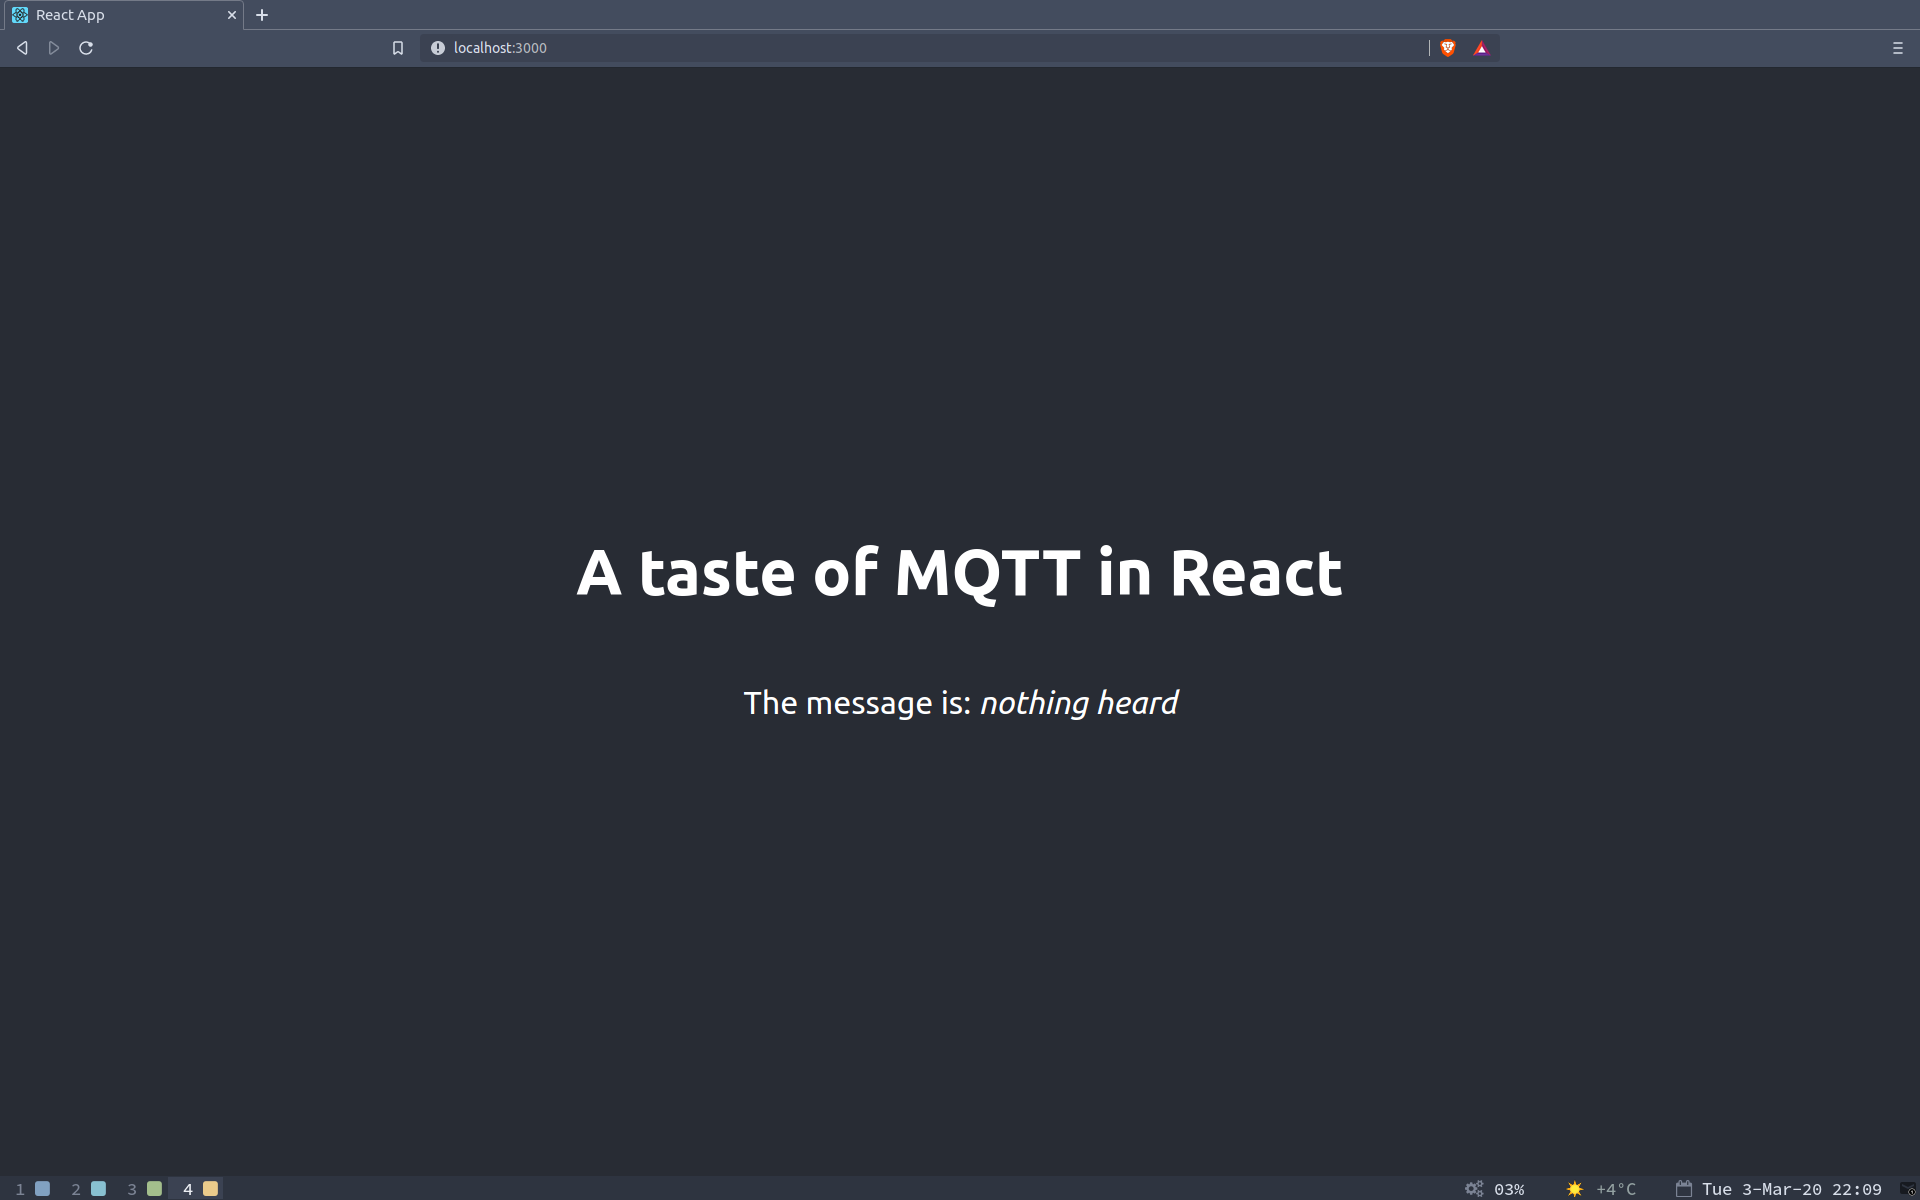
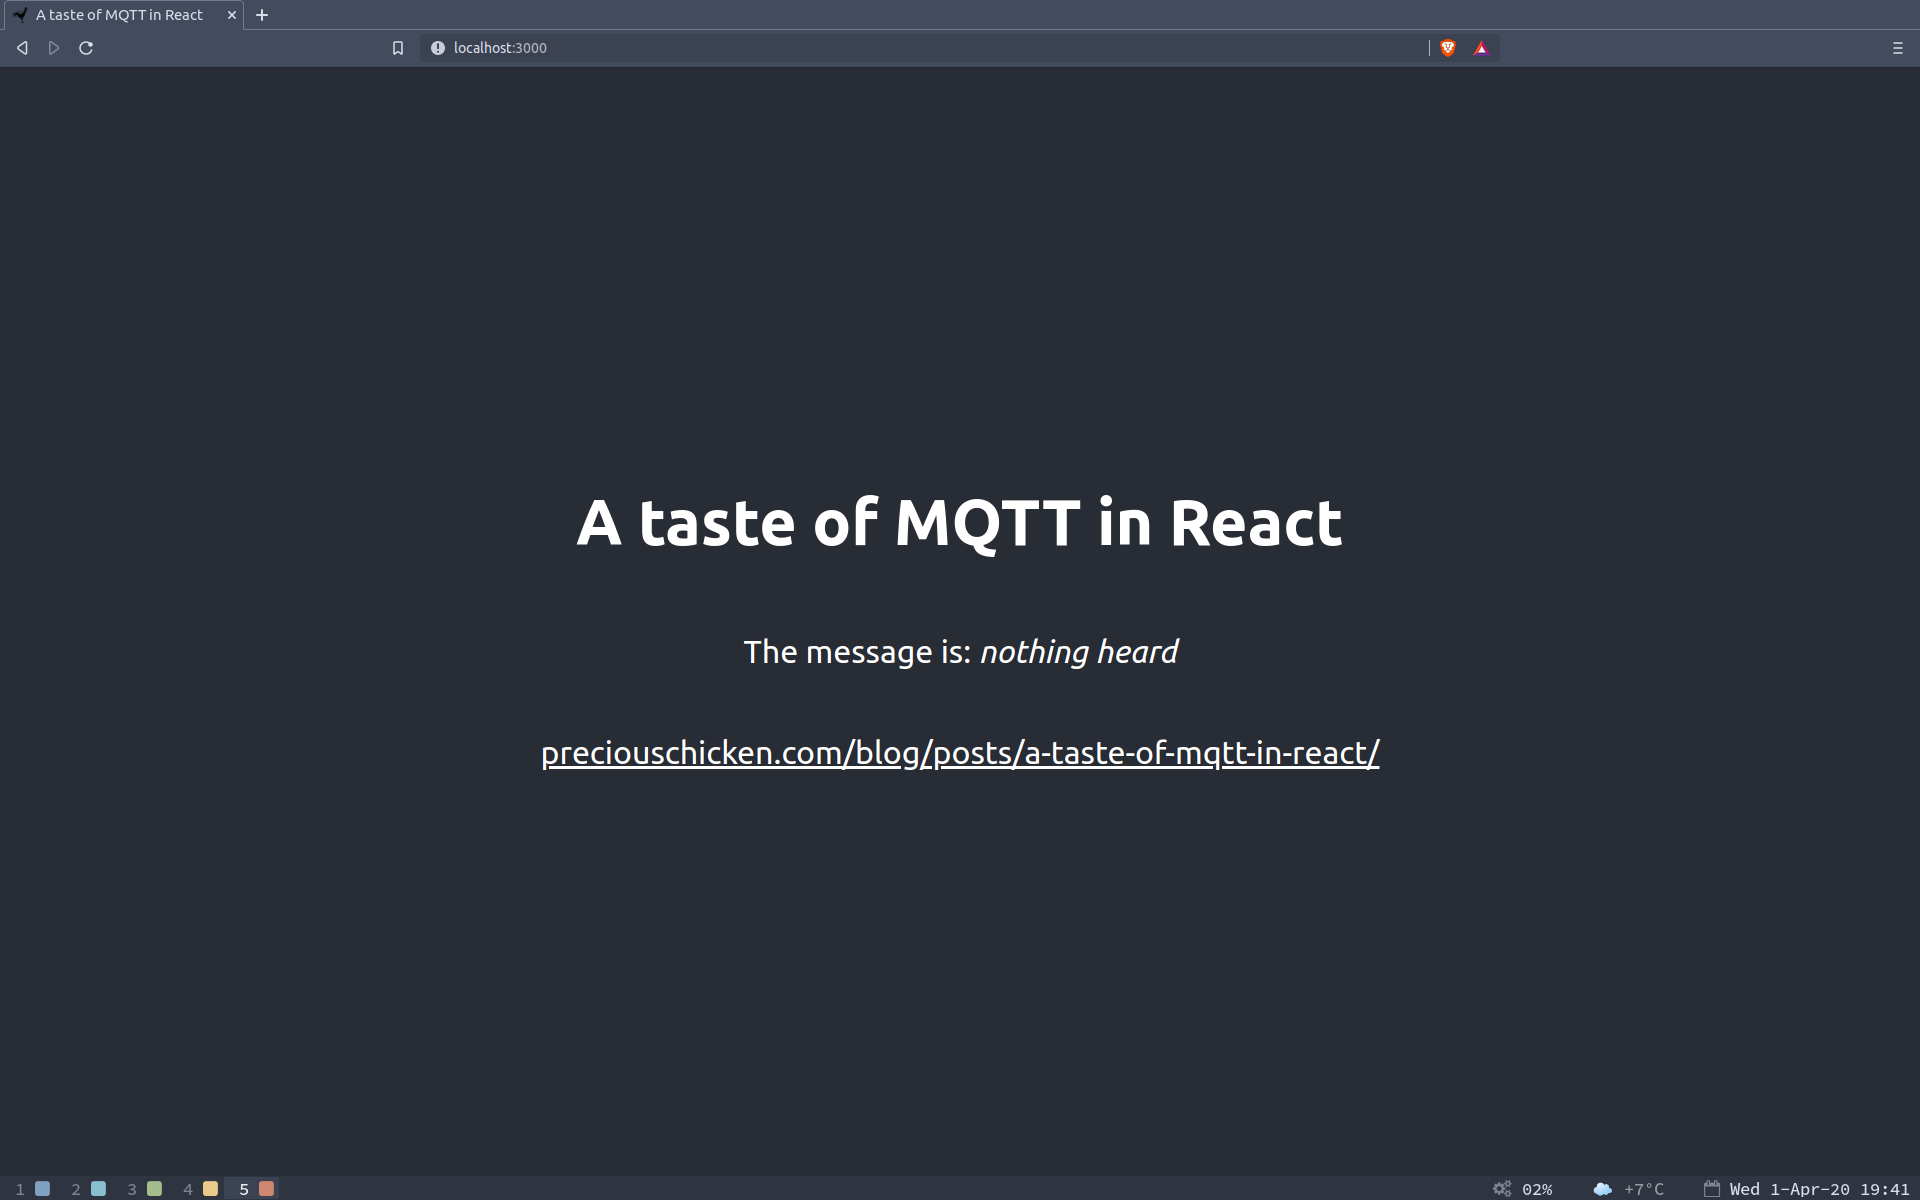
MQTT broker changed from Hive

diff --git a/content/posts/A-taste-of-MQTT-in-React.md b/content/posts/A-taste-of-MQTT-in-React.md
@@ -1,15 +1,20 @@
 ---
 title: "A taste of MQTT in React"
 date: 2020-03-03T21:43:50Z
-tags: ["React", "MQTT"]
+tags: ["React", "MQTT", "JavaScript"]
 categories: ["Web development"]
 description: "A very quick start to updating a page in React using MQTT"
-draft: true
+draft: false
 ---
+
+**Update Apr 20**: This tutorial previously used the MQTT online broker [HiveMQ](https://www.hivemq.com), which worked fine when you were using a local development server.  However once uploaded to a web site provider using https (pretty much everyone now), then it generated a mixed content error message.  This update therefore uses the [Eclipse Mosquitto MQTT broker](https://mosquitto.org), which doesn't have these problems.
 
 ### Introduction
 
-MQTT, is according to Wikipedia, "an open OASIS and ISO standard (ISO/IEC PRF 20922) lightweight, publish-subscribe network protocol that transports messages between devices."  It was first used to monitor an oil pipeline through the desert, and is now used in various Internet of Things scenarios.  This guide shows how you might update a [React](https://reactjs.org) page using a MQTT online broker - specifically [HiveMQ](https://www.hivemq.com).
+MQTT, is according to Wikipedia, 
+>"an open OASIS and ISO standard (ISO/IEC PRF 20922) lightweight, publish-subscribe network protocol that transports messages between devices."
+
+It was first used to monitor an oil pipeline through the desert, and is now used in various Internet of Things scenarios.  This guide shows how you might update a [React](https://reactjs.org) page using a MQTT online broker - specifically [Mosquitto](https://mosquitto.org).
 
 ### Prerequisites
 
@@ -42,33 +47,51 @@ import React, { useState, Fragment } from 'react';
 import './App.css';
 
 var mqtt    = require('mqtt');
-var client  = mqtt.connect('mqtt://broker.hivemq.com:8000/mqtt');
+var options = {
+	protocol: 'mqtts',
+	// clientId uniquely identifies client
+	// choose any string you wish
+	clientId: 'b0908853' 	
+};
+var client  = mqtt.connect('mqtt://test.mosquitto.org:8081', options);
+
+// preciouschicken.com is the MQTT topic
 client.subscribe('preciouschicken.com');
 
 function App() {
-	var note;
-	client.on('message', function (topic, message) {
-		// message is Buffer
-		note = message.toString();
-		setMesg(note);
-		console.log(note);
-		client.end();
-	});
+  var note;
+  client.on('message', function (topic, message) {
+    note = message.toString();
+    // Updates React state with message 
+    setMesg(note);
+    console.log(note);
+    client.end();
+    });
 
-	const [mesg, setMesg] = useState(<Fragment><em>nothing heard</em></Fragment>);
+  // Sets default React state 
+  const [mesg, setMesg] = useState(<Fragment><em>nothing heard</em></Fragment>);
 
-	return (
-		<div className="App">
-		<header className="App-header">
-		<h1>A taste of MQTT in React</h1>
-		<p>The message is: {mesg}</p>
+  return (
+    <div className="App">
+    <header className="App-header">
+    <h1>A taste of MQTT in React</h1>
+    <p>The message is: {mesg}</p>
+		<p>
+		<a href="https://www.preciouschicken.com/blog/posts/a-taste-of-mqtt-in-react/"    
+		style={{
+			color: 'white'
+		}}>preciouschicken.com/blog/posts/a-taste-of-mqtt-in-react/</a>
+		</p>
 		</header>
 		</div>
-	);
+  );
 }
 
 export default App;
 ```
+
+(or alternatively download from my [github repository](https://github.com/PreciousChicken/taste_of_mqtt_in_react)).
+
 
 ### Start the app
 
@@ -80,20 +103,34 @@ npm start
 
 and point your browser to [localhost:3000](http://localhost:3000) where you should see:
 
-![Nothing heard](static/images/taste_of_react_nothing_heard.png)
+[![Nothing heard](https://www.preciouschicken.com/blog/images/taste_of_react_nothing_heard.png)](https://www.preciouschicken.com/blog/images/taste_of_react_nothing_heard.png)
 
-### Publish a message via HiveMQ MQTT web broker
+### Publish a message via the command line
 
-Head to the [HiveMQ MQTT web broker](http://www.hivemq.com/demos/websocket-client/) and in the _Connection_ section select the _Connect_ button (leaving the other defaults in place).  Now in the _Publish_ section change the _Topic_ field to `preciouschicken.com` and type any message you want in the _Message_ field.  Lastly select _Publish_; as illustrated:
+Open the terminal and enter:
 
-![HiveMQ MQTT web broker](static/images/hivemq.png)
+```bash
+mqtt pub -t 'preciouschicken.com' -h 'test.mosquitto.org' -m 'Your message here!'
+```
 
 ### See the results in the React app
 
-Go back to [localhost:3000](localhost:3000) and you should see:
+Go back to [localhost:3000](http://localhost:3000) and you should see:
 
-![Your message here](static/images/taste_of_react_your_message.png)
+[![Your message here](https://www.preciouschicken.com/blog/images/taste_of_react_your_message.png)](https://www.preciouschicken.com/blog/images/taste_of_react_your_message.png)
 
---- 
+The message should also appear in your browser's console.
+
+In the event you see messages appearing that you haven't written, it means other people are using the same MQTT _Topic_ you are.  In that case remove the string `preciouschicken.com` from the file `src/App.js` and replace with something unique - for instance your birth year followed by your dog's name: e.g. `84rover`.  Use that same phrase in the _Topic_ flag (i.e. `-t`) of the MQTT command line and you will see your own messages only (assuming that other people born in 1984 with a dog named Rover aren't also broadcasting).
+
+
+### Conclusion
 
 Congratulations.  You are a step closer to achieving your life's ambition of getting  your internet enabled fridge to post to the net...
+
+### Further reading
+
+- [Beginner's Guide to the MQTT Protocol](http://www.steves-internet-guide.com/mqtt/)
+- [MQTT.js documentation](https://www.hivemq.com/blog/mqtt-client-library-mqtt-js/) as part of HiveMQ's [MQTT Client Library Encyclopedia](https://www.hivemq.com/mqtt-client-library-encyclopedia/)
+
+
